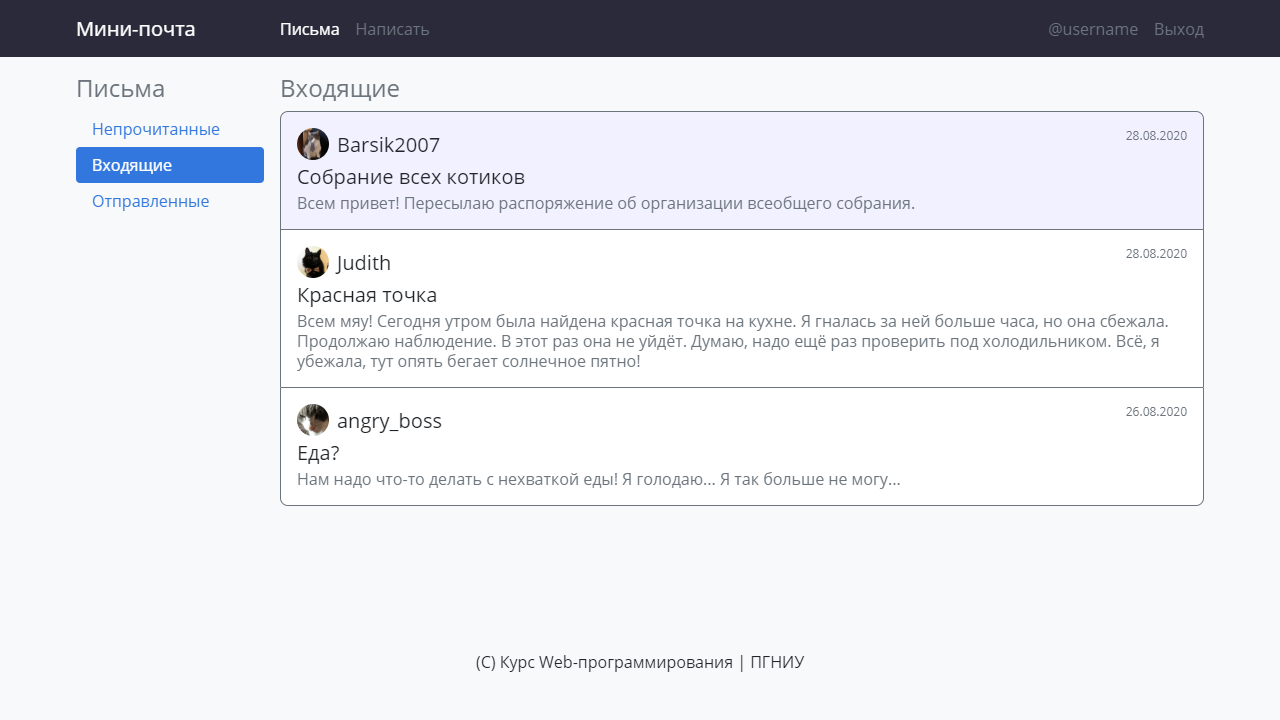
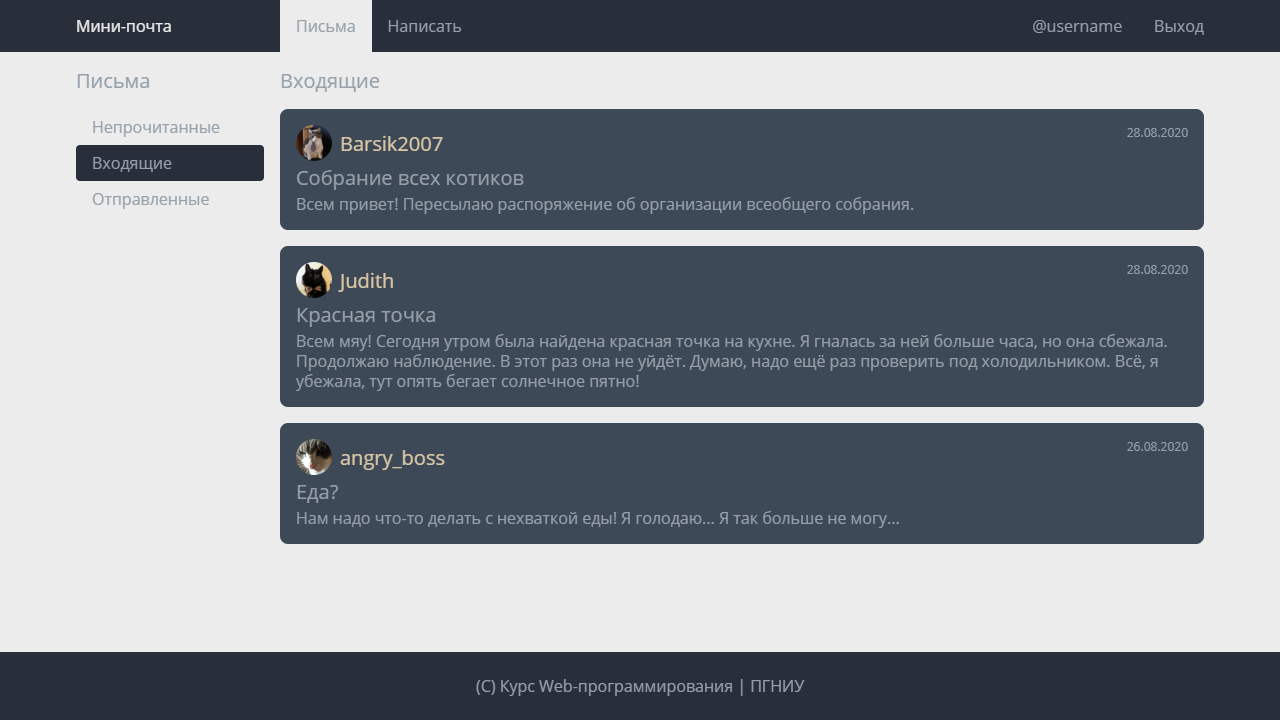
Update lab design for best testing and easy solution

diff --git a/cypress/integration/lab-1.spec.js b/cypress/integration/lab-1.spec.js
@@ -2,34 +2,48 @@ const baseURL = "./solution/index.html";
 
 const matchPercentConfig = (percent) => ({
   failureThreshold: percent / 100, // %
-  customDiffConfig: { threshold: 0.06 },
+  customDiffConfig: { threshold: 0.5 },
   failureThresholdType: "percent",
   allowSizeMismatch: true
 });
 
+// > 10% - всё очень плохо, нет одного сообщения, или нет меню
+// 10% --- В целом зачтено
+// 8.4% - нет аватарок
+// 5% - куча косяков с размерами
+// 1.28..1.6% - мелкая проблема с колонками, например 87% вместо 1/6
+// 0.48% - отсутствует активная ссылка в главном меню
+// 0.18..0.26% - неверная колонка только в навбаре
+// 0.08% --- Зачтено полностью
+// 0.05..0.07% - Arial вместо Open Sans + тень 2px вокруг всего текста (на самом деле поехала из-за смены шрифта кнопка)
+// 0.038% - невидимые аватарки
+// 0.02% --- Зачтено полностью
+// 0.01% - запас
+// 0.0066..0.0094% - адская тень у шрифта, всё ужасно двоится
+
 describe("Lab-1", () => {
-  it("(3б) Страница в целом соответствует эскизу на 1280x720 с точностью более 97%", () => {
+  it("(3б) Страница в целом соответствует эскизу на 1280x720 с точностью более 90%", () => {
     cy.viewport(1280, 720);
     cy.visit(baseURL);
     cy.screenshot("Lab-1-1280x720-simple-screenshot");
-    cy.matchImageSnapshot("Lab-1-1280x720", matchPercentConfig(3));
+    cy.matchImageSnapshot("Lab-1-1280x720", matchPercentConfig(10));
   });
 
-  it("(3б) Страница соответствует эскизу на 1280x720 с точностью более 99%", () => {
+  it("(3б) Страница соответствует эскизу на 1280x720 с точностью более 99.98%", () => {
     cy.viewport(1280, 720);
     cy.visit(baseURL);
     cy.screenshot("Lab-1-1280x720-screenshot");
-    cy.matchImageSnapshot("Lab-1-1280x720", matchPercentConfig(1));
+    cy.matchImageSnapshot("Lab-1-1280x720", matchPercentConfig(0.02)); //0.08%
   });
 
-  it("(2б) Страница соответствует эскизу на 1024x576 с точностью более 99%", () => {
+  it("(2б) Страница соответствует эскизу на 1024x576 с точностью более 99.98%", () => {
     cy.viewport(1024, 576);
     cy.visit(baseURL);
     cy.screenshot("Lab-1-1024x576-screenshot");
-    cy.matchImageSnapshot("Lab-1-1024x576", matchPercentConfig(1));
+    cy.matchImageSnapshot("Lab-1-1024x576", matchPercentConfig(0.02));
   });
 
-  it("(1б) Использованы семантические теги (nav, main, footer, article, ul, h1, time)\n присутствуют ссылки <a href=\"#\">: Письма, Написать, @username, Выход, Непрочитанные, Входящие, Отправленные", () => {
+  it("(1б) Использованы семантические теги (nav, main, footer, article, ul, h1, time); присутствуют ссылки <a href=\"#\">: Письма, Написать, @username, Выход, Непрочитанные, Входящие, Отправленные", () => {
     cy.visit(baseURL);
     cy.get("nav");
     cy.get("main");

diff --git a/README.md b/README.md
@@ -19,9 +19,9 @@
 - Полезное расширение для Chrome: [PerfectPixel by WellDoneCode](https://chrome.google.com/webstore/detail/perfectpixel-by-welldonec/dkaagdgjmgdmbnecmcefdhjekcoceebi/)
 
 #### Критерии
-- (3б) Страница в целом соответствует эскизу на 1280x720 с точностью более 97%;
-- (3б) Страница соответствует эскизу на 1280x720 с точностью более 99%;
-- (2б) Страница соответствует эскизу на 1024x576 с точностью более 99%;
+- (3б) Страница в целом соответствует эскизу на 1280x720 с точностью более 90%;
+- (3б) Страница соответствует эскизу на 1280x720 с точностью более 99.98%;
+- (2б) Страница соответствует эскизу на 1024x576 с точностью более 99.98%;
 - (1б) Использованы семантические теги (`nav, main, footer, article, ul, h1, time`), отсутствует лишняя разметка,
 использованы понятные имена классов, нет сложных селекторов, селекторов по ID;
 - (1б) CSS разделён на модули, основные параметры заданы через CSS переменные.
@@ -49,86 +49,81 @@
 - Шрифт: `'Open Sans', sans-serif` (подключен в `_fonts.css`)
 - Размеры шрифта:
     - Основной: `16px`
-    - Маленький (дата сообщения): `0.75rem`
     - Большой: `1.25rem`
-    - Заголовочный: `1.5rem`
+    - Маленький: `0.75rem`
 - Цвета:
-    - Основной цвет текста: `#212529`
-    - Серый (заголовки, рамки): `#6c757d`
-    - Белый: `#ffffff`
-    - Синий (ссылки): `#3277de`
-    - Фон непрочитанного сообщения: `#f1f1ff`
-    - Фон страницы: `#f8f9fa`
-    - Фон навигационной панели: `#2a2a3a`
-    - Фон белый: `#ffffff`
+    - Серый (основной цвет текста): `#96A1AB`
+    - Тёмный: `#282E3A`
+    - Светло-серый: `#ECECEC`
+    - Серо-голубой: `#3D4957`
+    - Бежевый: `#DBC7A6`
 - Максимальный размер основной части сайта: `1128px`
 - Отступы:
     - Базовый: `1rem`
-    - Большой (вокруг подвала): `3rem`
+    - Большой: `1.5rem`
     - Маленький: `0.5rem`
     - Очень маленький: `0.25rem`
 - Радиус скругления рамок:
-    - Основной (список сообщений): `0.5rem`
-    - Маленький (кнопки): `0.25rem`
-- Размер аватара: `2 rem`
+    - Основной: `0.5rem`
+    - Маленький: `0.25rem`
+- Размер аватара: `2.25rem`
 
 ### Описание компонентов
 
 #### Страница
 
 - Основное содержимое страницы находится внутри контейнера
-- Размер контейнера ограничен максимальным значением
-- На маленьком экране контейнер растягивается во всю ширину, оставляя базовые отступы до границ экрана
-- Основная часть страница имеет светло-серый фон
-- Внизу страницы подвал, имеющий большие вертикальные отступы
-- Подвал прибит к нижней части страницы
+- Размер контейнера ограничен `максимальным значением`
+- На маленьком экране контейнер растягивается во всю ширину, оставляя `базовые отступы` до границ экрана
+- Страница имеет `светло-серый` фон и `серый` текст
+- Ссылки также имеют `серый` текст
+- Внизу страницы подвал, имеющий `большие отступы` по вертикали и `тёмный` фон
+- Подвал прижат к нижней части страницы, даже если содержимое меньше экрана
 
 #### Навигационная панель
 
 - В верхней части сайта - навигационная панель
-- Панель имеет базовые внутренние отступы по вертикали
-- Содержимое находится внутри контейнера. Это логотип (белое название большим шрифтом, занимает одну колонку) и два меню (слева и справа)
-- Элементы меню разделены базовым отступом
-- Цвет текста ссылок в меню - серый
-- Цвет активной ссылки - белый
+- Панель имеет `базовые внутренние отступы` по вертикали
+- Содержимое находится внутри `контейнера`. Это `светло-серый` логотип и два меню со ссылками (слева и справа)
+- Логотип занимает колонку в `1/6` и отделён от меню `базовым отступом`
+- Ссылки в меню имеют `базовый внутренний отступ`
+- Активная ссылка имеет `светло-серый` фон
 
 #### Основная часть
 
-- Основная часть отделена базовым отступом от навигационной панели
-- Основная часть визуально делится на колонки шириной 1/6 и 5/6
-- Колонки разделены базовым отступом
-- В начале каждой колонки заголовок серого цвета заголовочного размера шрифта с маленьким отступом снизу
+- Основная часть отделена `базовым отступом` от навигационной панели
+- Основная часть визуально на колонку в `1/6` с меню и основное содержимое, разделенных `базовым отступом` (см. сетку ниже)
+- В начале каждой колонки заголовок `большого размера` с `базовым отступом` снизу
 
 #### Меню
 
 - Меню - список ссылок
-- Каждая ссылка имеет базовый внутренний отступ по горизонтали и маленький внутренний отступ по вертикали
-- Активная ссылка имеет синий фон, белый текст и маленькое скругление рамки
+- Каждая ссылка имеет `базовый внутренний отступ` по горизонтали и `маленький внутренний отступ` по вертикали
+- Активная ссылка имеет фон `тёмного` цвета, `светло-серый` текст и `маленькое скругление` углов
 
 #### Список сообщений
 
-- Сообщения выводятся списком на белом фоне
-- Каждое сообщение имеет серую рамку в 1px и базовый внутренний отступ
-- Рамки соседних сообщений не слипаются
-- Первое и последние сообщения имеют скруглённые рамки
-- Непрочитанное сообщение имеет особый цвет фона
-- Сообщение содержит три параграфа, разделённых очень маленьким отступом
-- Первый параграф содержит аватар и имя отправителя шрифтом большого размера
-- Аватар - круглый блок, который отделяется от имени маленьким отступом
+- Сообщения выводятся вертикальным списком сообщений, разделённых `базовым отступом`
+- Каждое сообщение имеет `базовый внутренний отступ`, `серо-голубой` фон и `скруглённые` углы
+- Сообщение содержит три параграфа, разделённых `очень маленьким отступом`
+- Первый параграф содержит аватар и имя отправителя `бежевым цветом` `большого размера` шрифта
+- Аватар - круг с изображением, который отделяется от имени `маленьким отступом`
 - Изображение внутри блока с аватаром занимает всё доступное место, сохраняя исходные пропорции (используйте `background-size`)
-- Имя автора находится по центру первого параграфа
-- Тема сообщения выводится шрифтом большого размера
-- Текст сообщения выводится серым цветом
-- Справа сверху выводится дата сообщения серым цветом шрифтом маленького размера в элементе `<time>`
+- Имя автора находится по центру по вертикали
+- Тема сообщения выводится `шрифтом большого размера`
+- Справа сверху выводится дата сообщения `маленьким` шрифтом в элементе `<time>`
 
 ## Инструкция по автоматическому тестированию
 
 *Примечание: первая установка может потребовать около 5 минут и ~50МБ интернет трафика.*
 
-1. Установите [Node.js](https://nodejs.org/) версии не ниже 12 LTS
-2. Установите зависимости, введя команду `npm install` в терминал в этой директории
-3. Запустите тестирование, введя команду `npm test` (займёт около 30 секунд)
-4. Если тестирование будет выполнено успешно, делайте коммит и отправляйте решение
-5. Если тестирование провалится, в директории `snapshots/lab-1.spec.js/__diff_output__` будут изображение со сравнением вашего результата и ожидаемого
+1. Склонируйте ваш репозиторий командой `git clone <ваш-репозиторий>`
+2. Перейдите в директорию репозитория
+3. Установите [Node.js](https://nodejs.org/) версии не ниже 12 LTS
+4. Установите зависимости командой `npm install`
+5. Решите задачу в директории `solution`
+6. Запустите тестирование командой `npm test` (займёт около 60 секунд)
+7. Если тестирование провалится: в директории `snapshots/lab-1.spec.js/__diff_output__` будут изображение со сравнением вашего результата и ожидаемого
+8. Если тестирование будет выполнено успешно: делайте коммит `git commit -am "Сообщение"` и отправляйте решение `git push`
 
 **Важно:** время тестирования ограничено. Пожалуйста, не отправляйте решение, пока не будете готовы его сдавать :)
